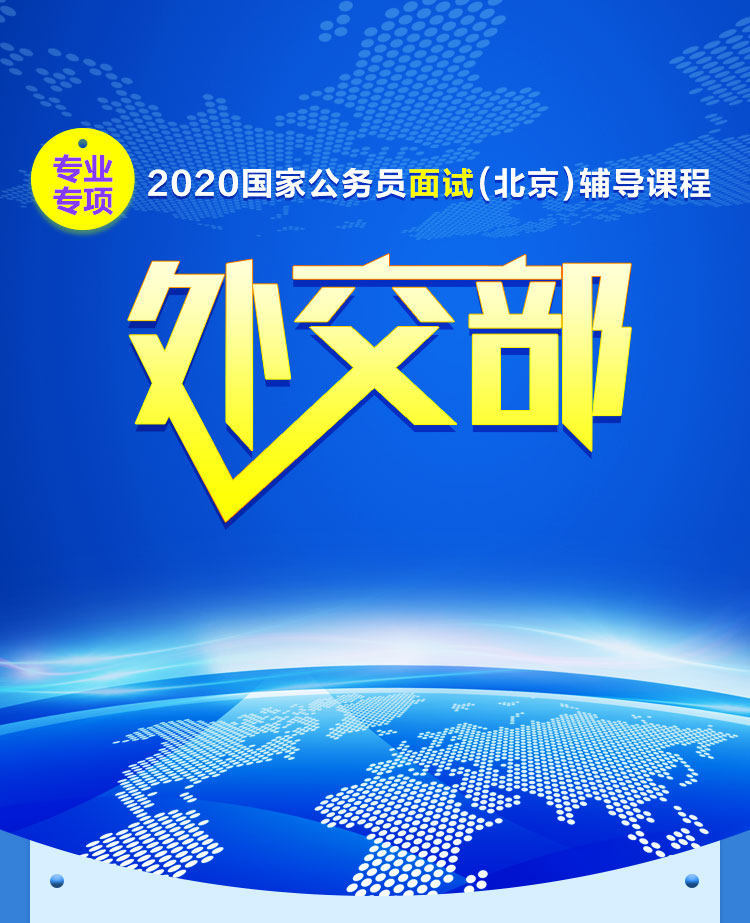
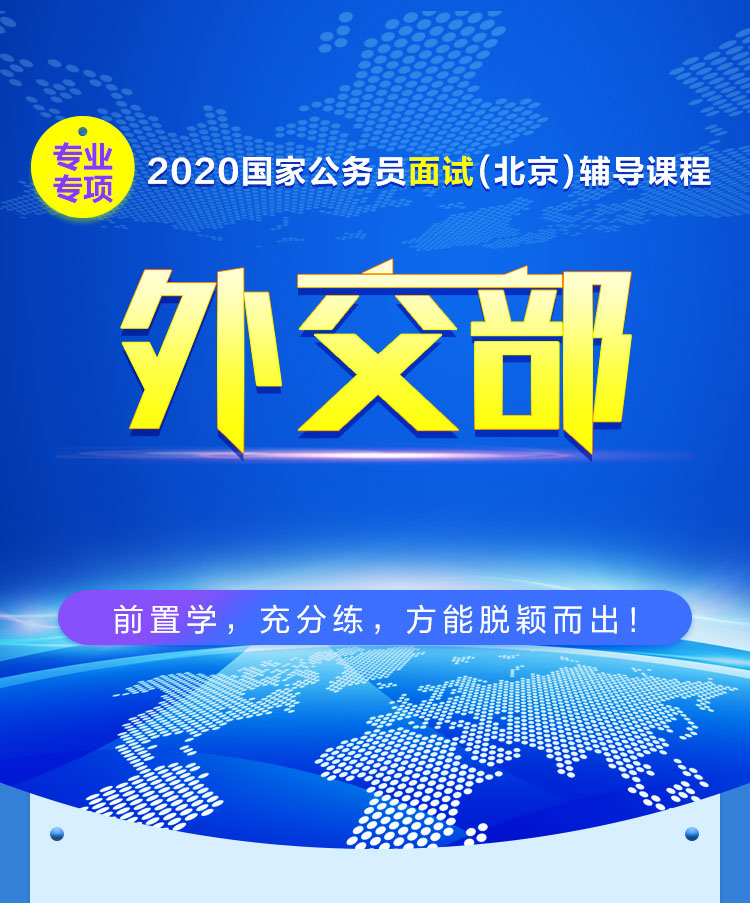
212

diff --git a/css/index.css b/css/index.css
@@ -107,8 +107,8 @@ header.fixed {
 /*m_banner*/
 .mban {
     width: 7.5rem;
-    height:9.23rem;
-    background: url(../images/banner.jpg) no-repeat center top;
+    height:9.03rem;
+    background: url(../images/ban.jpg) no-repeat center top;
     -webkit-background-size: 7.5rem;
     background-size: 7.5rem;
     padding-top: 5.24rem;
